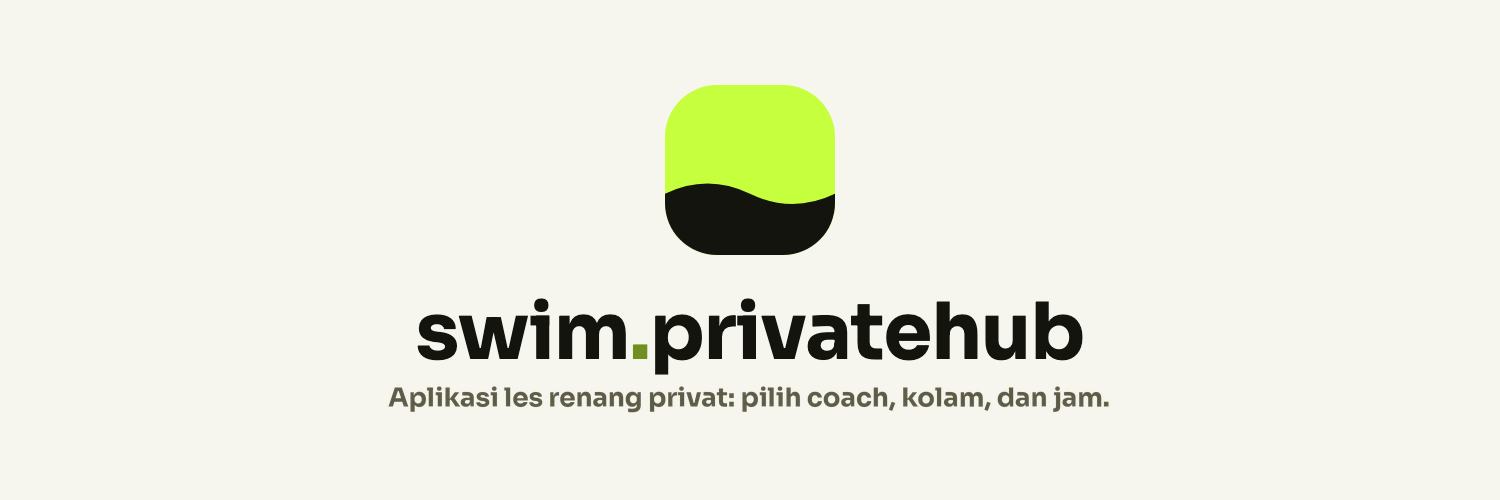
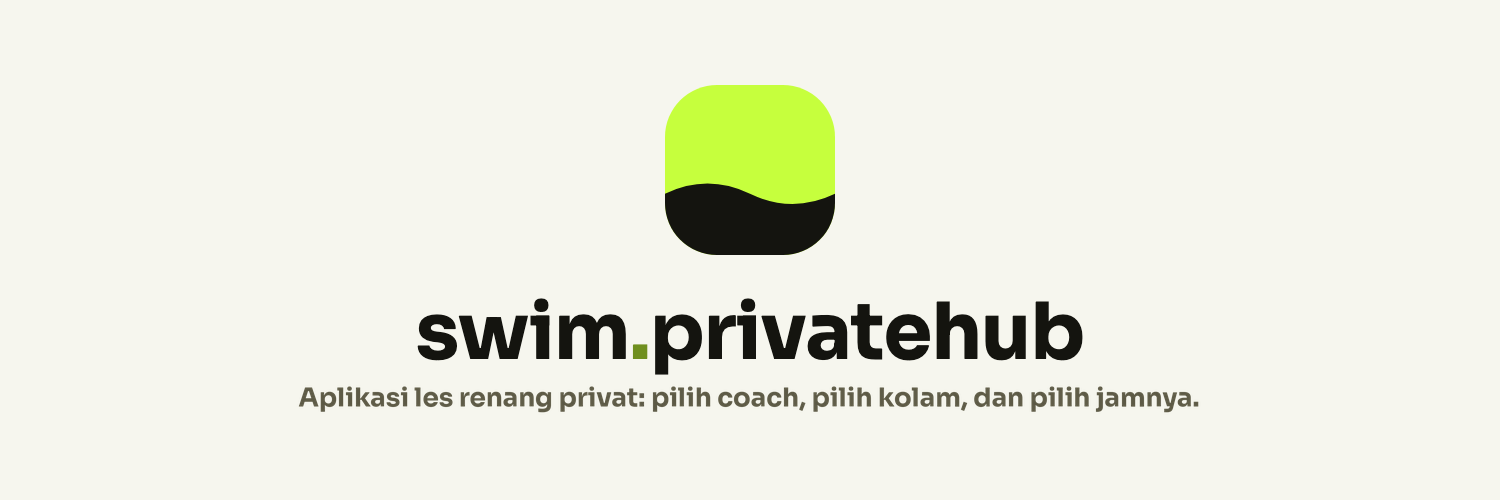
fix(brand): headline persis di semua halaman, foto profil aman di crop bulat, koreksi isi /brandguideline
Tagline pendek dibuang, semua pakai headline yang sama persis. Banner & foto profil dirender ulang (Sora Bold). Hapus catatan produksi yang salah (wordmark memang Sora). Pindah catatan Kurangi gerak ke bagian 10. Catat fakta tanda logo di latar gelap sebagai temuan terbuka. Label tile PNG mark diperjelas.

Changed region(s): [[0.184, 0.75, 0.7973, 0.84]]

diff --git a/src/app/brandguideline/brandguideline-view.tsx b/src/app/brandguideline/brandguideline-view.tsx
@@ -238,7 +238,7 @@ export default function BrandGuidelineView() {
                 { src: "/brand-kit/logo/svg/mark-lime.svg", label: "mark-lime", bg: "bg-surface" },
                 { src: "/brand-kit/logo/svg/mark-cream.svg", label: "mark-cream", bg: "bg-fixed-lime" },
                 { src: "/brand-kit/logo/svg/mark-white-mono.svg", label: "mark-white-mono", bg: "bg-fixed-ink" },
-                { src: "/brand-kit/logo/png/mark-lime-512.png", label: "mark-lime (PNG)", bg: "bg-surface" },
+                { src: "/brand-kit/logo/png/mark-lime-512.png", label: "mark-lime (PNG, latar krem bawaan file)", bg: "bg-fixed-cream" },
               ].map((m) => (
                 <div key={m.label} className={`flex flex-col items-center gap-2 rounded-xl border border-border ${m.bg} p-3`}>
                   <Image src={m.src} alt="" width={40} height={40} className="h-10 w-10" />
@@ -258,6 +258,11 @@ export default function BrandGuidelineView() {
                 Ruang aman: <b className="text-text">½ lebar tanda</b> di materi luar (banner, dokumen cetak),{" "}
                 <b className="text-text">¼ lebar tanda</b> di bilah UI (header aplikasi) — lihat keputusan di bagian 15.
               </li>
+              <li>
+                Di latar charcoal, &quot;air&quot; (bagian bawah tanda) berwarna sama dengan latar, jadi tanda tampil sebagai
+                bentuk lime dengan tepi bergelombang. Itu perilaku semua file tanda dan lockup saat ini (termasuk
+                <code>lockup-on-dark</code>), bukan galat render — lihat temuan terbuka di bagian 15.
+              </li>
             </ul>
           </Note>
         </Section>
@@ -272,7 +277,7 @@ export default function BrandGuidelineView() {
           <div>
             <SubHeading>Warna tetap (tidak ikut tema)</SubHeading>
             <p className="mt-1 text-sm text-text-muted">
-              Landing, panduan, dan halaman hukum sengaja selalu tampil terang. Warnanya dikunci lewat token{" "}
+              Landing, panduan, dan halaman hukum tampil sama di tema terang maupun gelap (tidak ikut toggle tema). Warnanya dikunci lewat token{" "}
               <code>fixed-*</code> di <code>src/app/globals.css</code>.
             </p>
             <div className="mt-3 grid gap-2 sm:grid-cols-2 lg:grid-cols-3">
@@ -351,7 +356,7 @@ export default function BrandGuidelineView() {
             <SubHeading>Skala yang dipakai di aplikasi</SubHeading>
             <div className="mt-3 flex flex-col divide-y divide-border rounded-xl border border-border bg-surface">
               {[
-                { cls: "text-4xl font-semibold", sample: "Aplikasi les renang privat", meta: "text-4xl · 36px · judul halaman depan" },
+                { cls: "text-4xl font-semibold", sample: "Aplikasi les renang privat", meta: "text-4xl · 36px di HP, sm:text-6xl · 60px di layar lebar · judul halaman depan" },
                 { cls: "text-2xl font-semibold", sample: "Booking Coach", meta: "text-2xl · 24px · judul halaman (h1)" },
                 { cls: "text-xl font-semibold", sample: "Daftar Member", meta: "text-xl · 20px · judul kartu auth" },
                 { cls: "text-lg font-semibold", sample: "Riwayat pembayaran", meta: "text-lg · 18px · judul bagian (h2)" },
@@ -633,11 +638,6 @@ export default function BrandGuidelineView() {
               <p className="mt-2 text-xs text-text-subtle">banner-linkedin-1584x396.png</p>
             </div>
           </div>
-          <Note tone="warning" title="Catatan produksi">
-            Wordmark pada banner memakai fallback Helvetica/Arial bold, bukan Sora asli — font Sora tidak terpasang
-            di mesin yang merender gambar ini. Render ulang di komputer dengan Sora terpasang kalau butuh versi
-            dengan font asli (lihat <code>brand-kit/fonts/FONTS.md</code>).
-          </Note>
           <p className="text-sm text-text-muted">
             Gambar bagikan (Open Graph) dibuat otomatis oleh kode lewat <code>src/app/opengraph-image.tsx</code> —
             bukan file statis — muncul saat tautan situs dibagikan di WhatsApp/media sosial.
@@ -656,11 +656,6 @@ export default function BrandGuidelineView() {
             CSS yang di-override lokal (lihat <code>theme-scope.tsx</code>) — bukan mengganti atribut{" "}
             <code>data-theme</code> di <code>&lt;html&gt;</code>, jadi tidak memengaruhi toggle tema situs.
           </p>
-          <Note title="Kurangi gerak">
-            Seluruh transisi dan animasi (termasuk orb pemuatan dan scroll-reveal landing) mati otomatis kalau
-            pengguna mengaktifkan &quot;Kurangi Gerak&quot; di sistem operasinya (<code>prefers-reduced-motion</code>).
-            Konten tetap tampil penuh, hanya tanpa gerak.
-          </Note>
         </Section>
 
         {/* 10 Gerak & A11y */}
@@ -696,6 +691,11 @@ export default function BrandGuidelineView() {
               </tbody>
             </table>
           </div>
+          <Note title="Kurangi gerak">
+            Seluruh transisi dan animasi (termasuk orb pemuatan dan scroll-reveal landing) mati otomatis kalau
+            pengguna mengaktifkan &quot;Kurangi Gerak&quot; di sistem operasinya (<code>prefers-reduced-motion</code>).
+            Konten tetap tampil penuh, hanya tanpa gerak.
+          </Note>
         </Section>
 
         {/* 11 Bahasa */}
@@ -710,11 +710,8 @@ export default function BrandGuidelineView() {
               <h4 className="font-medium text-text">Headline, subheadline &amp; tagline resmi</h4>
               <p className="mt-2 text-lg font-semibold text-text">Aplikasi les renang privat: pilih coach, pilih kolam, dan pilih jamnya.</p>
               <p className="mt-1 text-sm text-text-muted">Buat anak atau kamu sendiri yang baru mau belajar. Coach kelola jadwal sendiri, kolam lihat pemakaian harian, semua dalam satu aplikasi.</p>
-              <p className="mt-3 text-sm text-text-muted">
-                Tagline pendek (banner, halaman masuk/daftar, gambar berbagi): <strong className="text-text">Aplikasi les renang privat: pilih coach, kolam, dan jam.</strong>
-              </p>
               <p className="mt-2 text-xs text-text-subtle">
-                Satu sumber, dipakai identik di landing, panduan, meta, dan banner. &quot;Pilih jam&quot; berarti dari jam
+                Satu sumber, dipakai identik (tidak dipersingkat) di landing, panduan, footer, halaman masuk/daftar, gambar berbagi, dan banner. &quot;Pilih jam&quot; berarti dari jam
                 kosong coach — jangan tulis &quot;bebas pilih jadwal&quot;, dan jangan pakai &quot;pertama/nomor 1&quot;.
               </p>
             </CardBody></Card>
@@ -852,6 +849,11 @@ export default function BrandGuidelineView() {
                     t: "Warna status & teks samar: kit vs kode",
                     d: "palette.json & palette.css versi lama gagal batas kontras teks (3,4–4,1:1); aplikasi memakai versi lebih gelap (5,0–6,5:1).",
                     s: "Selesai: palette.json (25 Sep) dan palette.css (sesi ini) disinkronkan ke nilai aplikasi.",
+                  },
+                  {
+                    t: "Tanda logo di latar gelap",
+                    d: "Semua file tanda memakai air #14140F. Di latar charcoal (banner, foto profil, header gelap) bagian bawah tanda menyatu dengan latar.",
+                    s: "Terbuka: belum ada varian khusus latar gelap (misal air dengan warna lebih terang atau kontur tipis). Perlu keputusan identitas — mengubahnya berarti mengubah logo di seluruh aplikasi, jadi belum dikerjakan.",
                   },
                   {
                     t: "Dokumen guideline lama",

diff --git a/src/app/landing-view.tsx b/src/app/landing-view.tsx
@@ -481,7 +481,7 @@ export default function LandingView({ stats, pools, coaches }: { stats: LandingS
               <Image src="/logo.png" alt="" width={32} height={32} className="h-8 w-8 rounded-lg object-contain" />
               <Logotype className="text-lg text-white" />
             </div>
-            <p>Aplikasi les renang privat: pilih coach, kolam, dan jam.</p>
+            <p>Aplikasi les renang privat: pilih coach, pilih kolam, dan pilih jamnya.</p>
           </div>
 
           <div className="flex flex-col gap-1.5">

diff --git a/src/app/(auth)/register/register-form.tsx b/src/app/(auth)/register/register-form.tsx
@@ -102,7 +102,7 @@ export default function RegisterForm() {
           priority
         />
         <p className="text-lg text-text"><Logotype /></p>
-        <p className="text-sm text-text-muted">Aplikasi les renang privat: pilih coach, kolam, dan jam.</p>
+        <p className="text-sm text-text-muted">Aplikasi les renang privat: pilih coach, pilih kolam, dan pilih jamnya.</p>
       </div>
 
       <Card className="w-full max-w-sm">

diff --git a/src/app/(auth)/login/login-form.tsx b/src/app/(auth)/login/login-form.tsx
@@ -83,7 +83,7 @@ export default function LoginForm() {
           priority
         />
         <p className="text-lg text-text"><Logotype /></p>
-        <p className="text-sm text-text-muted">Aplikasi les renang privat: pilih coach, kolam, dan jam.</p>
+        <p className="text-sm text-text-muted">Aplikasi les renang privat: pilih coach, pilih kolam, dan pilih jamnya.</p>
       </div>
 
       <Card className="w-full max-w-sm">

diff --git a/src/app/opengraph-image.tsx b/src/app/opengraph-image.tsx
@@ -38,7 +38,7 @@ export default async function OpengraphImage() {
           Swim Private Hub
         </div>
         <div style={{ display: "flex", marginTop: 16, fontSize: 28, color: "rgba(255,255,255,0.85)" }}>
-          Aplikasi les renang privat: pilih coach, kolam, dan jam.
+          Aplikasi les renang privat: pilih coach, pilih kolam, dan pilih jamnya.
         </div>
       </div>
     ),

diff --git a/brand-kit/MESSAGING.md b/brand-kit/MESSAGING.md
@@ -37,7 +37,7 @@ Terakhir diperbarui: 25 September 2026 (headline & tagline baru).
 | Subheadline | 1–2 kalimat: untuk siapa + siapa melakukan apa. Sebut "anak atau kamu sendiri" supaya pemula dewasa juga merasa dituju. Jelaskan cara kerjanya, bukan janji | "Buat anak atau kamu sendiri yang baru mau belajar. Coach kelola jadwal sendiri, kolam lihat pemakaian harian, semua dalam satu aplikasi." |
 | Judul bagian | 2–4 kata, huruf besar hanya di awal | "Kolam mitra", "Kenalan dengan coach" |
 | Judul halaman aplikasi | Kata benda, tanpa basa-basi | "Booking Coach", "Riwayat Bayar" |
-| Tagline pendek (sosmed, banner, halaman masuk/daftar, gambar berbagi) | Maksimal 12 kata; versi ringkas headline | "Aplikasi les renang privat: pilih coach, kolam, dan jam." |
+| Tagline (sosmed, banner, footer, halaman masuk/daftar, gambar berbagi) | **Sama persis dengan headline**, tidak dipersingkat atau diparafrase | "Aplikasi les renang privat: pilih coach, pilih kolam, dan pilih jamnya." |
 | Deskripsi meta (mesin pencari, manifest PWA) | Headline + kalimat pertama subheadline | "Aplikasi les renang privat: pilih coach, pilih kolam, dan pilih jamnya. Buat anak atau kamu sendiri yang baru mau belajar." |
 
 **Catatan klaim:** "pilih jam" artinya memilih dari jam yang masih kosong di jadwal coach
